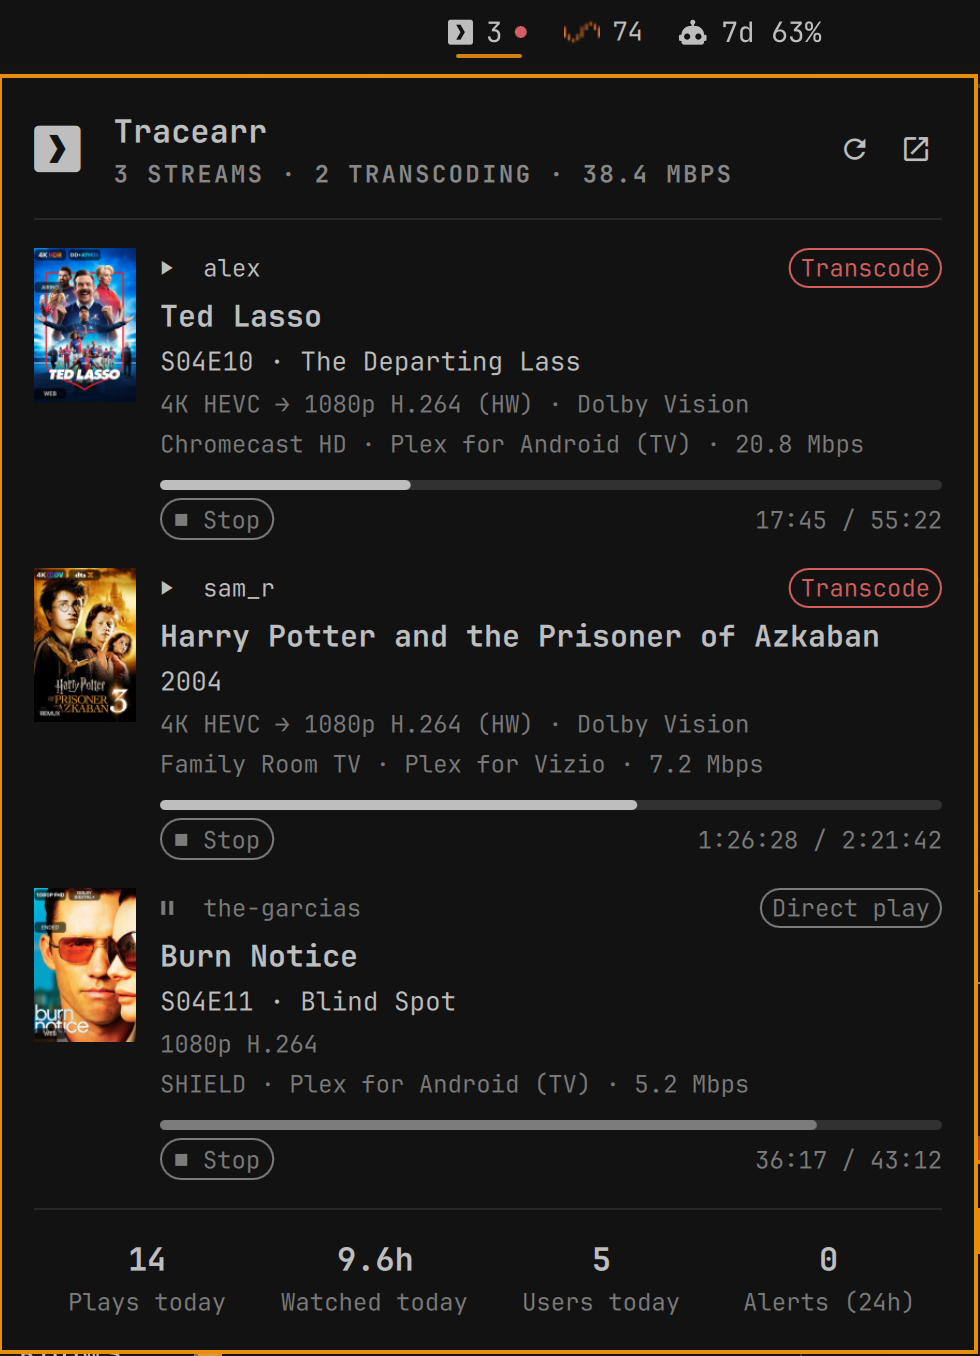
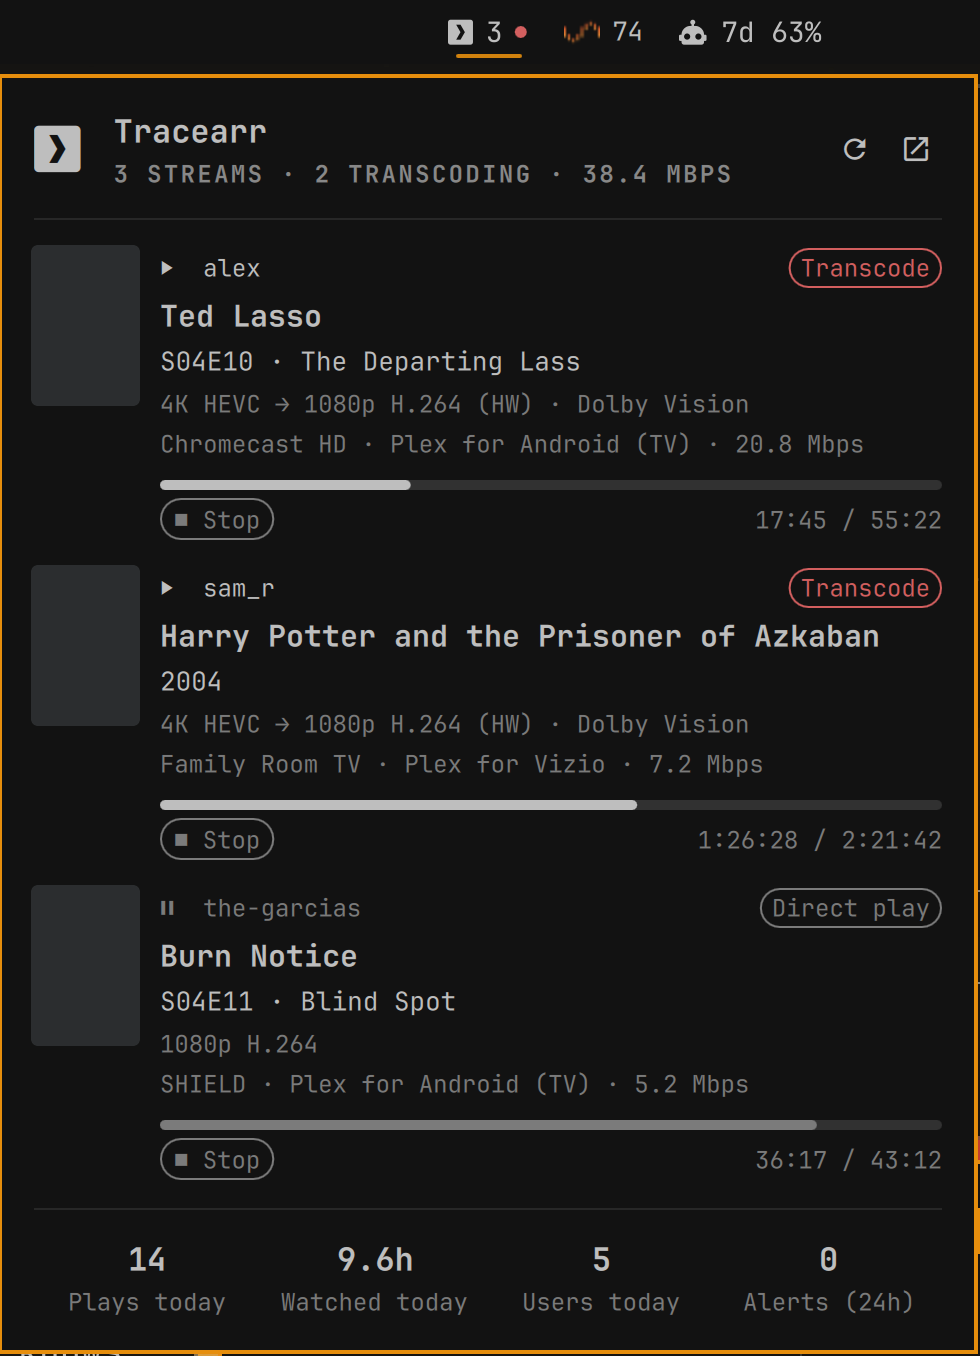
Add removal instructions; use placeholder art in preview

Changed region(s): [[0.0306, 0.4027, 0.1531, 0.5575], [0.0306, 0.1549, 0.1531, 0.3097], [0.0306, 0.6504, 0.1531, 0.7743]]

diff --git a/README.md b/README.md
@@ -25,6 +25,14 @@ Generate the key in Tracearr under **Settings → General** (it starts with `trr
 
 > The URL must reach Tracearr's API directly. If Tracearr sits behind a forward-auth proxy (Authentik, Authelia, etc.), the widget can't log in. Use a route without forward auth, or exempt `/api/v1/public` from it. Tracearr still checks the API key.
 
+## Remove
+
+```bash
+omarchy plugin remove jmb11111.tracearr
+```
+
+This unloads the widget and deletes the plugin folder. The plugin doesn't create any other files, so nothing else needs cleaning up. If you also want to revoke the API key, delete it in Tracearr under **Settings → General**.
+
 ## Settings
 
 All settings live on the widget's entry in `~/.config/omarchy/shell.json`.
